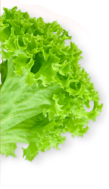
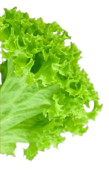
initial commit

diff --git a/bakmiapp/src/components/layout/HomeMenu.js b/bakmiapp/src/components/layout/HomeMenu.js
@@ -4,12 +4,12 @@ const HomeMenu = () => {
 	return (
 		<>
 			<section className="">
-				<div className="absolute right-0 left-0">
-					<div className="h-48 w-48 left-0 absolute">
-						<Image src={"/sallad1.png"} layout={"fill"} objectFit={"contain"} alt={"salad-1"} />
+				<div className="absolute h-full right-0 left-0 w-full justify-start">
+					<div className="absolute left-0 -top-12 text-left">
+						<Image src={"/sallad1.png"} width={109} height={189} alt={"salad-1"} />
 					</div>
-					<div className="h-48 w-48 right-0 absolute">
-						<Image src={"/sallad2.png"} layout={"fill"} objectFit={"contain"} alt={"salad-2"} />
+					<div className="absolute right-0 -top-24 -z-10">
+						<Image src={"/sallad2.png"} width={107} height={195} alt={"salad-2"} />
 					</div>
 				</div>
 				<div className="text-center">
